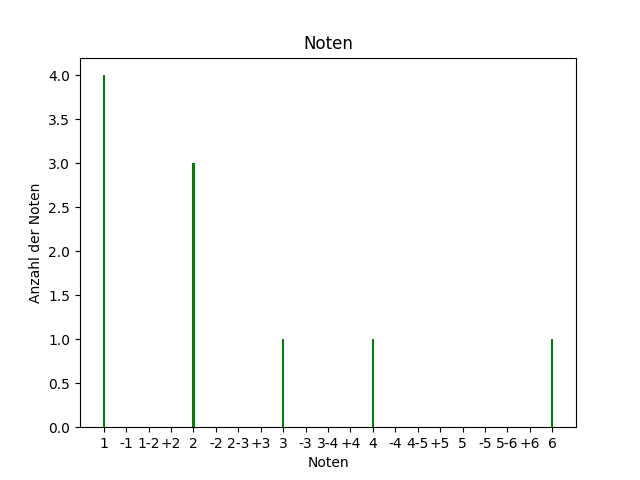
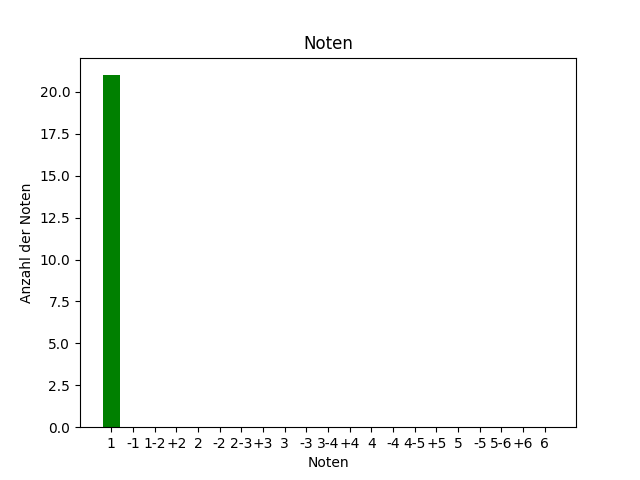
rrr

diff --git a/templates/base.html b/templates/base.html
@@ -17,30 +17,32 @@
         </label>
         <em>Dark Mode</em>
     </div>
-    <div class="links-div">
-        <a class="link {{ signedin }}" href="/signedin">Übersicht</a><br>
-        <a class="link {{ zeugnisnote }}" href="/zeugnisnote">Zeugnisnote Berechnen</a><br>
-        <a class="link {{ fach_hinzufügen }}" href="/fach_hinzufügen">Fach Hinzufügen</a><br>
-        <a class="link {{ note_hinzufügen }}" href="/note_hinzufügen">Note Hinzufügen</a><br>
-        <a class="link {{ muendliche_note_hinzufügen }}" href="/muendliche_note_hinzufügen">Mündliche Note Hinzufügen</a><br>
-        <a class="link {{ reset }}" href="/reset">Reset</a><br>
-        <a class="link {{ delete }}" href="/delete">Account Löschen</a><br>
-        <a class="link {{ logout }}" href="/logout">Logout</a><br>
-        <a class="link {{ graph }}" href="/graph">Graph</a><br>
-    </div>
-    {% block content %}
-    {% endblock %}
-    <div class="subjects links-div">
-        <h2>Fächer:</h2>
-        {% block subject_links %}  
-        {% for subject2 in subjects %}
-        {% if subject2 != subject %}
-        <a class="link" href="/fach_uebersicht/{{ subject2.name }}">{{ subject2.name }}</a><br>
-        {% else %}
-        <a class="link active" href="/fach_uebersicht/{{ subject2.name }}">{{ subject2.name }}</a><br>
-        {% endif %}
-        {% endfor %}
+    <div class="container">
+        <div class="links-div">
+            <a class="link {{ signedin }}" href="/signedin">Übersicht</a><br>
+            <a class="link {{ zeugnisnote }}" href="/zeugnisnote">Zeugnisnote Berechnen</a><br>
+            <a class="link {{ fach_hinzufügen }}" href="/fach_hinzufügen">Fach Hinzufügen</a><br>
+            <a class="link {{ note_hinzufügen }}" href="/note_hinzufügen">Note Hinzufügen</a><br>
+            <a class="link {{ muendliche_note_hinzufügen }}" href="/muendliche_note_hinzufügen">Mündliche Note Hinzufügen</a><br>
+            <a class="link {{ reset }}" href="/reset">Reset</a><br>
+            <a class="link {{ delete }}" href="/delete">Account Löschen</a><br>
+            <a class="link {{ logout }}" href="/logout">Logout</a><br>
+            <a class="link {{ graph }}" href="/graph">Graph</a><br>
+        </div>
+        {% block content %}
         {% endblock %}
+        <div class="subjects links-div">
+            <h2>Fächer:</h2>
+            {% block subject_links %}  
+            {% for subject2 in subjects %}
+            {% if subject2 != subject %}
+            <a class="link" href="/fach_uebersicht/{{ subject2.name }}">{{ subject2.name }}</a><br>
+            {% else %}
+            <a class="link active" href="/fach_uebersicht/{{ subject2.name }}">{{ subject2.name }}</a><br>
+            {% endif %}
+            {% endfor %}
+            {% endblock %}
+        </div>
     </div>
 </body>
 </html>

diff --git a/static/style.css b/static/style.css
@@ -7,12 +7,11 @@
 .subjects {
     left: 66%;
     max-height: 650px;
-    overflow: scroll;
-    z-index: -1;
+    overflow-y: scroll;
 }
 .grades {
     height: 124px;
-    overflow: scroll;
+    overflow-y: scroll;
 }
 .links-div{
     color: var(--textColor);
@@ -206,4 +205,11 @@ input:checked + .slider:before {
   border-color: #000000;
   border-radius: 12px;
   border-width: 2px;
+  position: relative;
+  z-index: 3;
+}
+
+img {
+  width: 450px;
+  z-index: 2;
 }

diff --git a/main.py b/main.py
@@ -46,6 +46,7 @@ from flask_sqlalchemy import SQLAlchemy
 import sqlalchemy
 import sqlalchemy.exc
 from werkzeug.security import check_password_hash, generate_password_hash
+from graph import create_graph
 def hash_password(password):
     return generate_password_hash(password)
 
@@ -88,7 +89,7 @@ class Muendliche_Note(db.Model):
 
 @login_manager.user_loader
 def loader_user(user_id):
-    return User.query.get(user_id)
+    return User.query.filter_by(id=user_id).first()
 
 @app.route('/', methods=['GET', 'POST'])
 @app.route('/signup', methods=['POST', 'GET'])
@@ -288,6 +289,9 @@ def zeugnisnote():
 @app.route('/graph', methods=['GET', 'POST'])
 def graph():
     subjects = Fach.query.filter_by(user_id=current_id).all()
+    noten = Note.query.filter_by(user_id=current_id).all()
+    print([note.wert for note in noten])
+    create_graph([note.wert for note in noten])
     return render_template('graph.html', graph=True, subjects=subjects)
 
 if __name__ == '__main__':

diff --git a/graph.py b/graph.py
@@ -1,15 +1,13 @@
+import matplotlib
+matplotlib.use('Agg')
 import matplotlib.pyplot as plt
 
 def create_graph(noten):
     left = ['1', '-1', '1-2', '+2', '2', '-2', '2-3', '+3', '3', '-3', '3-4', '+4', '4', '-4', '4-5', '+5', '5', '-5', '5-6', '+6', '6']
     height = [noten.count(i/4) for i in range(4, 25)]
     tick_labels = ['1', '-1', '1-2', '+2', '2', '-2', '2-3', '+3', '3', '-3', '3-4', '+4', '4', '-4', '4-5', '+5', '5', '-5', '5-6', '+6', '6']
-    plt.bar(left, height, tick_label=tick_labels, width=0.1, color=['green'])
+    plt.bar(left, height, tick_label=tick_labels, width=0.8, color=['green'])
     plt.xlabel('Noten')
     plt.ylabel('Anzahl der Noten')
     plt.title('Noten')
     plt.savefig(r'C:/Users/linla\Documents/GitHub/Noten-Berechner/static/images/graph')
-
-noten = [1, 1, 1, 1, 2, 2, 2, 3, 4, 6]
-
-create_graph(noten)
